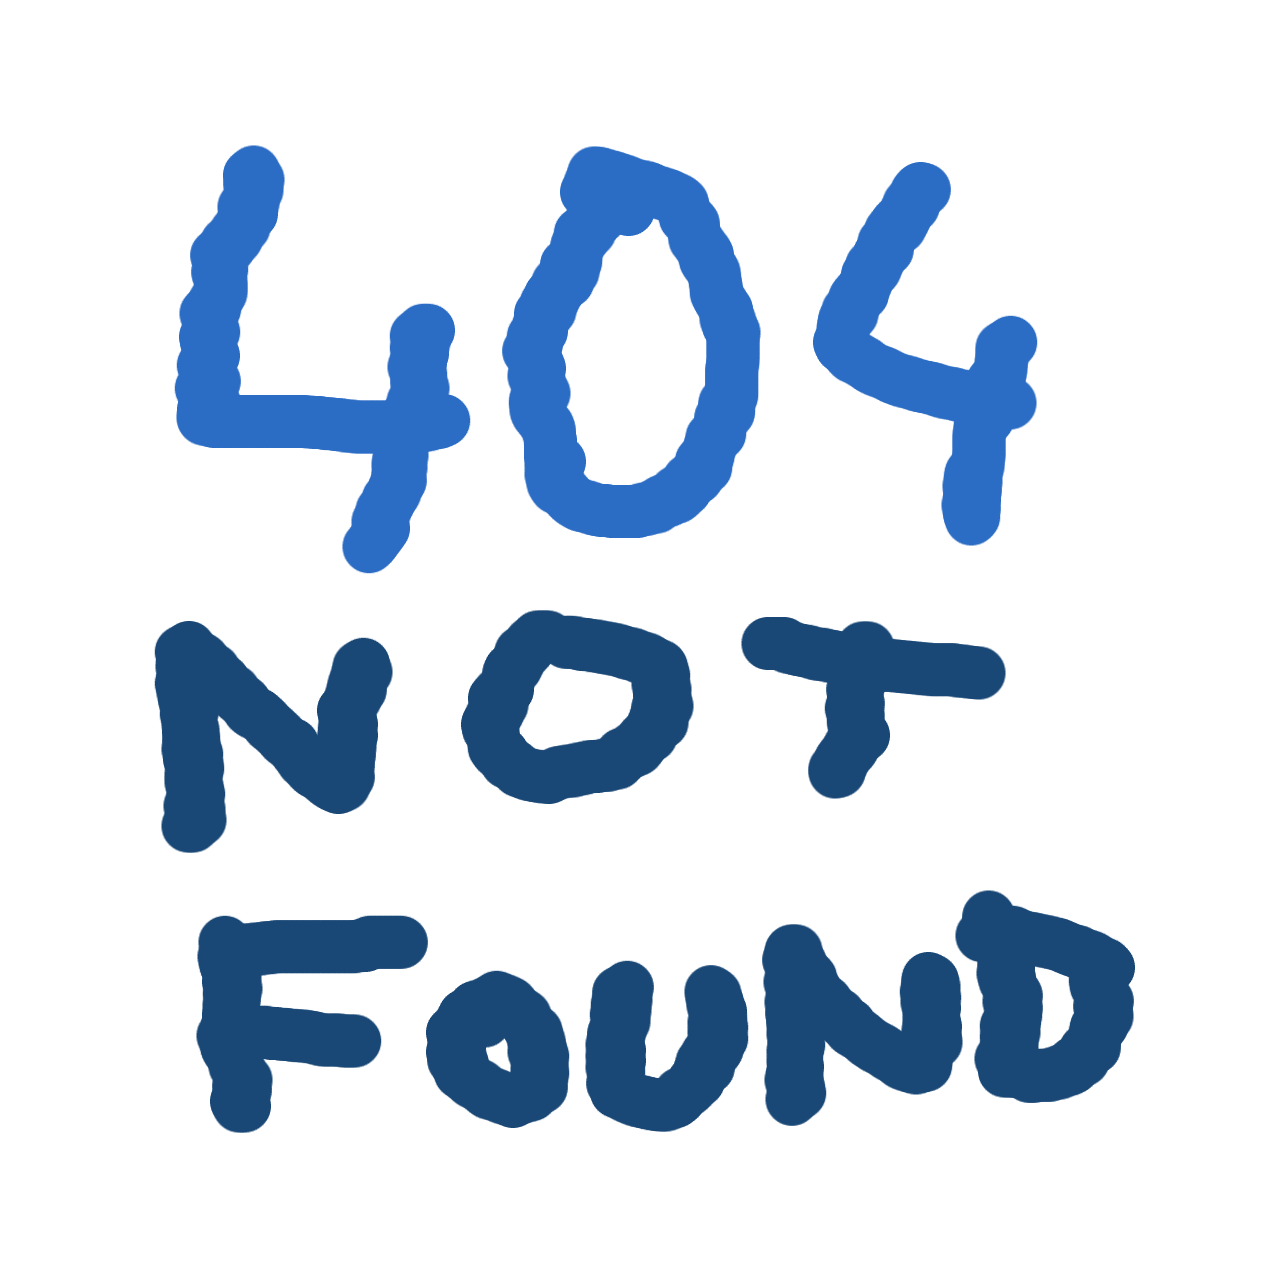
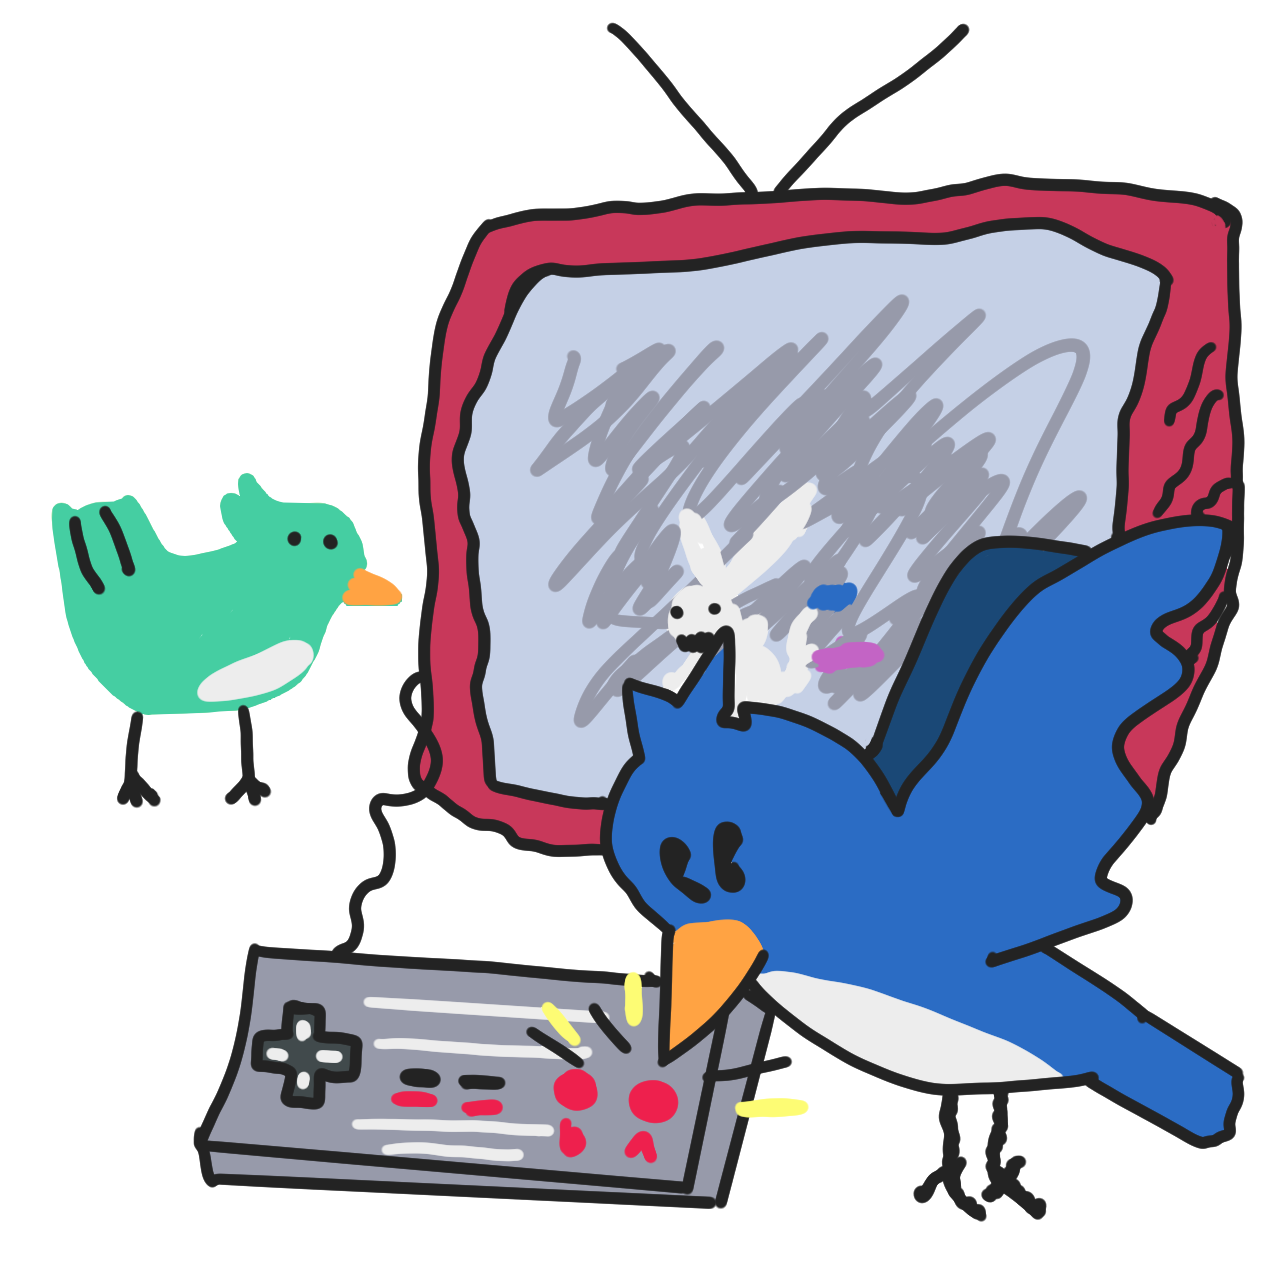
fix sponsor, make img bigger, add hiding plugin

diff --git a/static/vauhtijuoksu2026plus/theme/css/table.scss b/static/vauhtijuoksu2026plus/theme/css/table.scss
@@ -50,28 +50,70 @@ $twitch-icon-image: url("../img/twitch.png");
 }
 .timetable {
   .ttplay {
+    gap: 1em;
+    margin-left: 1em;
+  }
+  .ttplaydate {
+    gap: 1em;
+    margin-left: 0;
   }
   .playdate {
+    font-size: 2.5em;
   }
+  .playstart{
+    font-size: 1.2rem;
+  }
+  .playtimehold{
+    gap: 0;
+    margin-bottom: -0.3em;
+  }
+  .playtimearrow{
+    color: $v_avaruus;
+    transform: rotate(-8deg);
+    display: inline-block;
+  }
+  .playtimeend{
+    color: $v_munakoiso;
+;
 
+  }
   .playleft {
+    width: 38%;
+    max-width: 180px;
+    margin-bottom: 0;
   }
-
+  .playgame{
+    font-size: 1.7em;
+  }
+  .playcategory {
+    color: $v_keskiyo
+  }
   .playblob {
   }
   .timetable-char {
-
+    height: 100%;
     img.char {
       image-rendering: smooth;
-      max-width: 120%;
-      left: 40%;
-      top: 48%
+      max-width: 100%;
+      max-height: 160px;
+      position: relative;
+      transform: translate(0, -5px);
+      left: auto;
+      top: auto
     }
   }
   .charOutline {
+    position: relative;
+    display: flex;
+    align-content: center;
+    align-items: center;
+    justify-content: center;
+
   }
 
   .playright {
+    flex-grow: 1;
+    margin-bottom: 0.2em;
   }
   .playgame {
   }

diff --git a/templates/vauhtijuoksu/plugins/timetable.html b/templates/vauhtijuoksu/plugins/timetable.html
@@ -3,16 +3,16 @@
 <div class="timetable">
 
     {% for day in games %}
-        <div class="ttplay">
+        <div class="ttplay ttplaydate">
             <div class="playdate">{{ day.0.start_time|date:"w"|fiweekday }} {{ day.0.start_time|date:"j.n." }}</div>
         </div>
         {% for game in day %}
+            <div class="ttplay playtimehold">
+
+                <div class="playstart">{{ game.start_time|date:"H:i" }} <div class="playtimearrow">-&gt;</div> <span class="playtimeend">{{ game.end_time|date:"H:i" }}</span></div>
+            </div>
             <div class="ttplay">
                 <div class="playleft">
-                    <div class="playstart">{{ game.start_time|date:"H:i" }}-{{ game.end_time|date:"H:i" }}</div>
-                    <div class="playduration playcategory">{{ game.duration }}</div>
-                </div>
-                <div class="playblob">
                     <div class="timetable-char">
                         <div class="charOutline">
                             <img class="char" src="{% static 'vauhtijuoksu2026plus/img/char/'|add:game.img_filename %}">

diff --git a/static/vauhtijuoksu2026plus/theme/css/main.scss b/static/vauhtijuoksu2026plus/theme/css/main.scss
@@ -16,6 +16,10 @@ h1, h2, h3, h4, h5, h6{
 }
 $base_text_shadow: $v_talvio;
 
+.sponsors {
+  image-rendering: smooth;
+}
+
 .side-page-layout {
   & .content-side {
     background-color: transparent;
@@ -53,6 +57,10 @@ $base_text_shadow: $v_talvio;
       }
     }
   }
+}
+.divider{
+  margin-top: 1.5em;
+  margin-bottom: 1.5em;
 }
 
 .divider-0 {

diff --git a/templates/vauhtijuoksu/plugins/hideContent.html b/templates/vauhtijuoksu/plugins/hideContent.html
@@ -1,0 +1,2 @@
+{% load cms_tags %}
+<!-- there is absolutely nothing here -->

diff --git a/vj_cms/cms_plugins.py b/vj_cms/cms_plugins.py
@@ -16,6 +16,17 @@ from datetime import datetime, timedelta
 client = VJClient(settings.VJ_API_URL)
 
 @plugin_pool.register_plugin
+class HideContentPlugin(CMSPluginBase):
+    name = 'Hide Content'
+    model = CMSPlugin
+    render_template = "vauhtijuoksu/plugins/hideContent.html"
+    cache = False
+    allow_children = True
+    def render(self, context, instance, placeholder):
+        context = super().render(context, instance, placeholder)
+        return context
+
+@plugin_pool.register_plugin
 class SponsorLogoHolderPlugin(CMSPluginBase):
     name = 'Sponsor Logo Holder'
     model = SponsorLogoHolder
